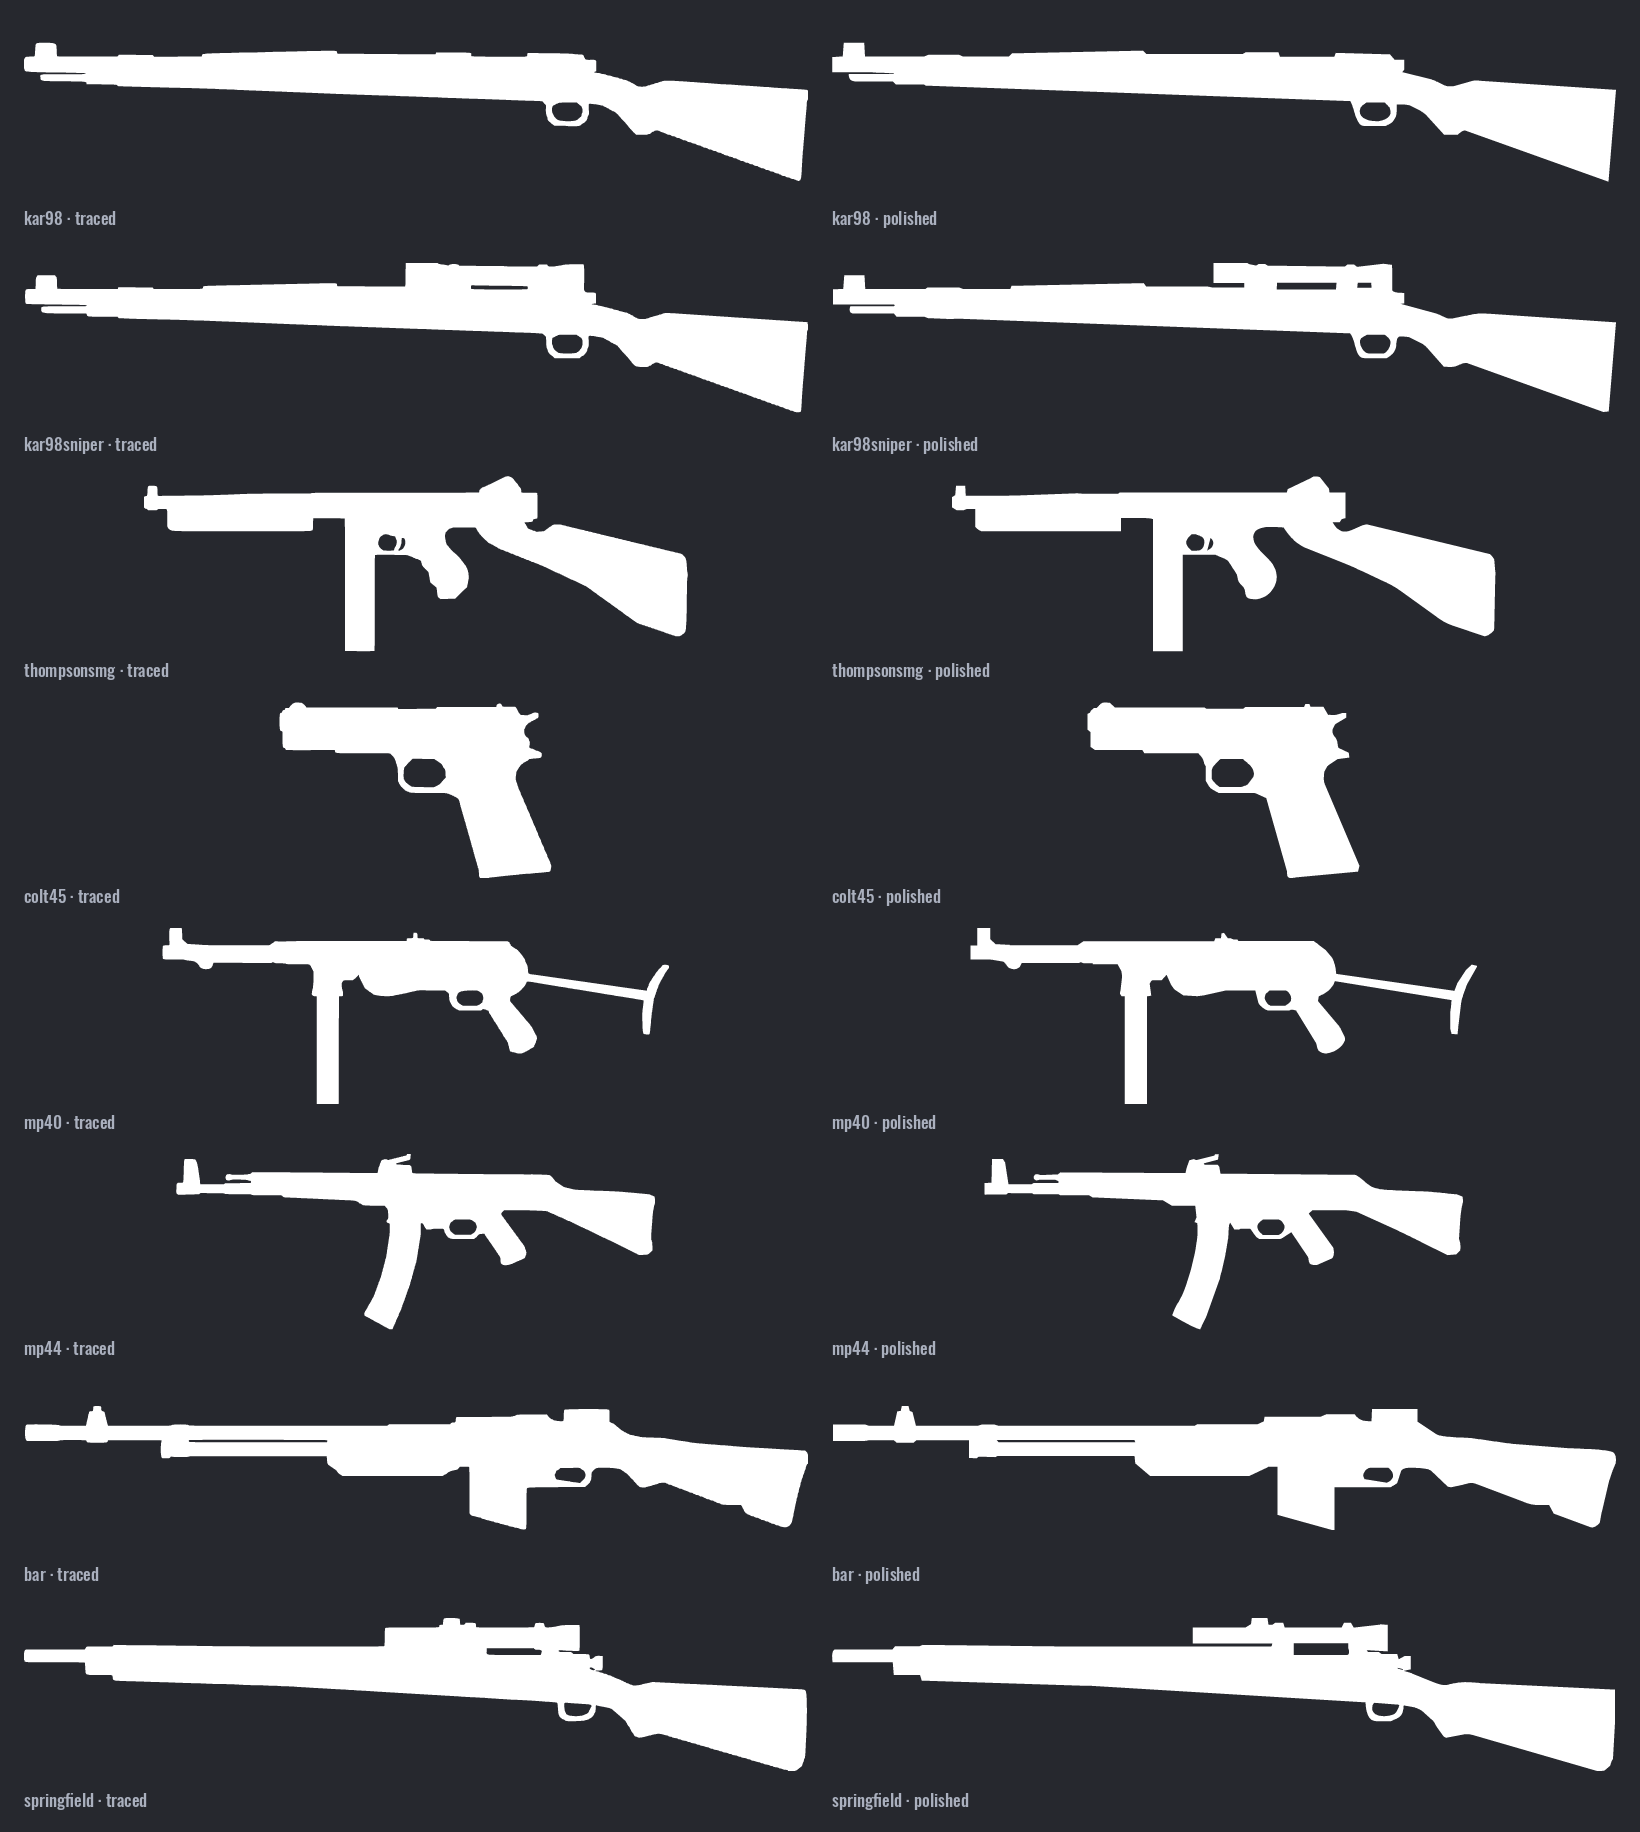
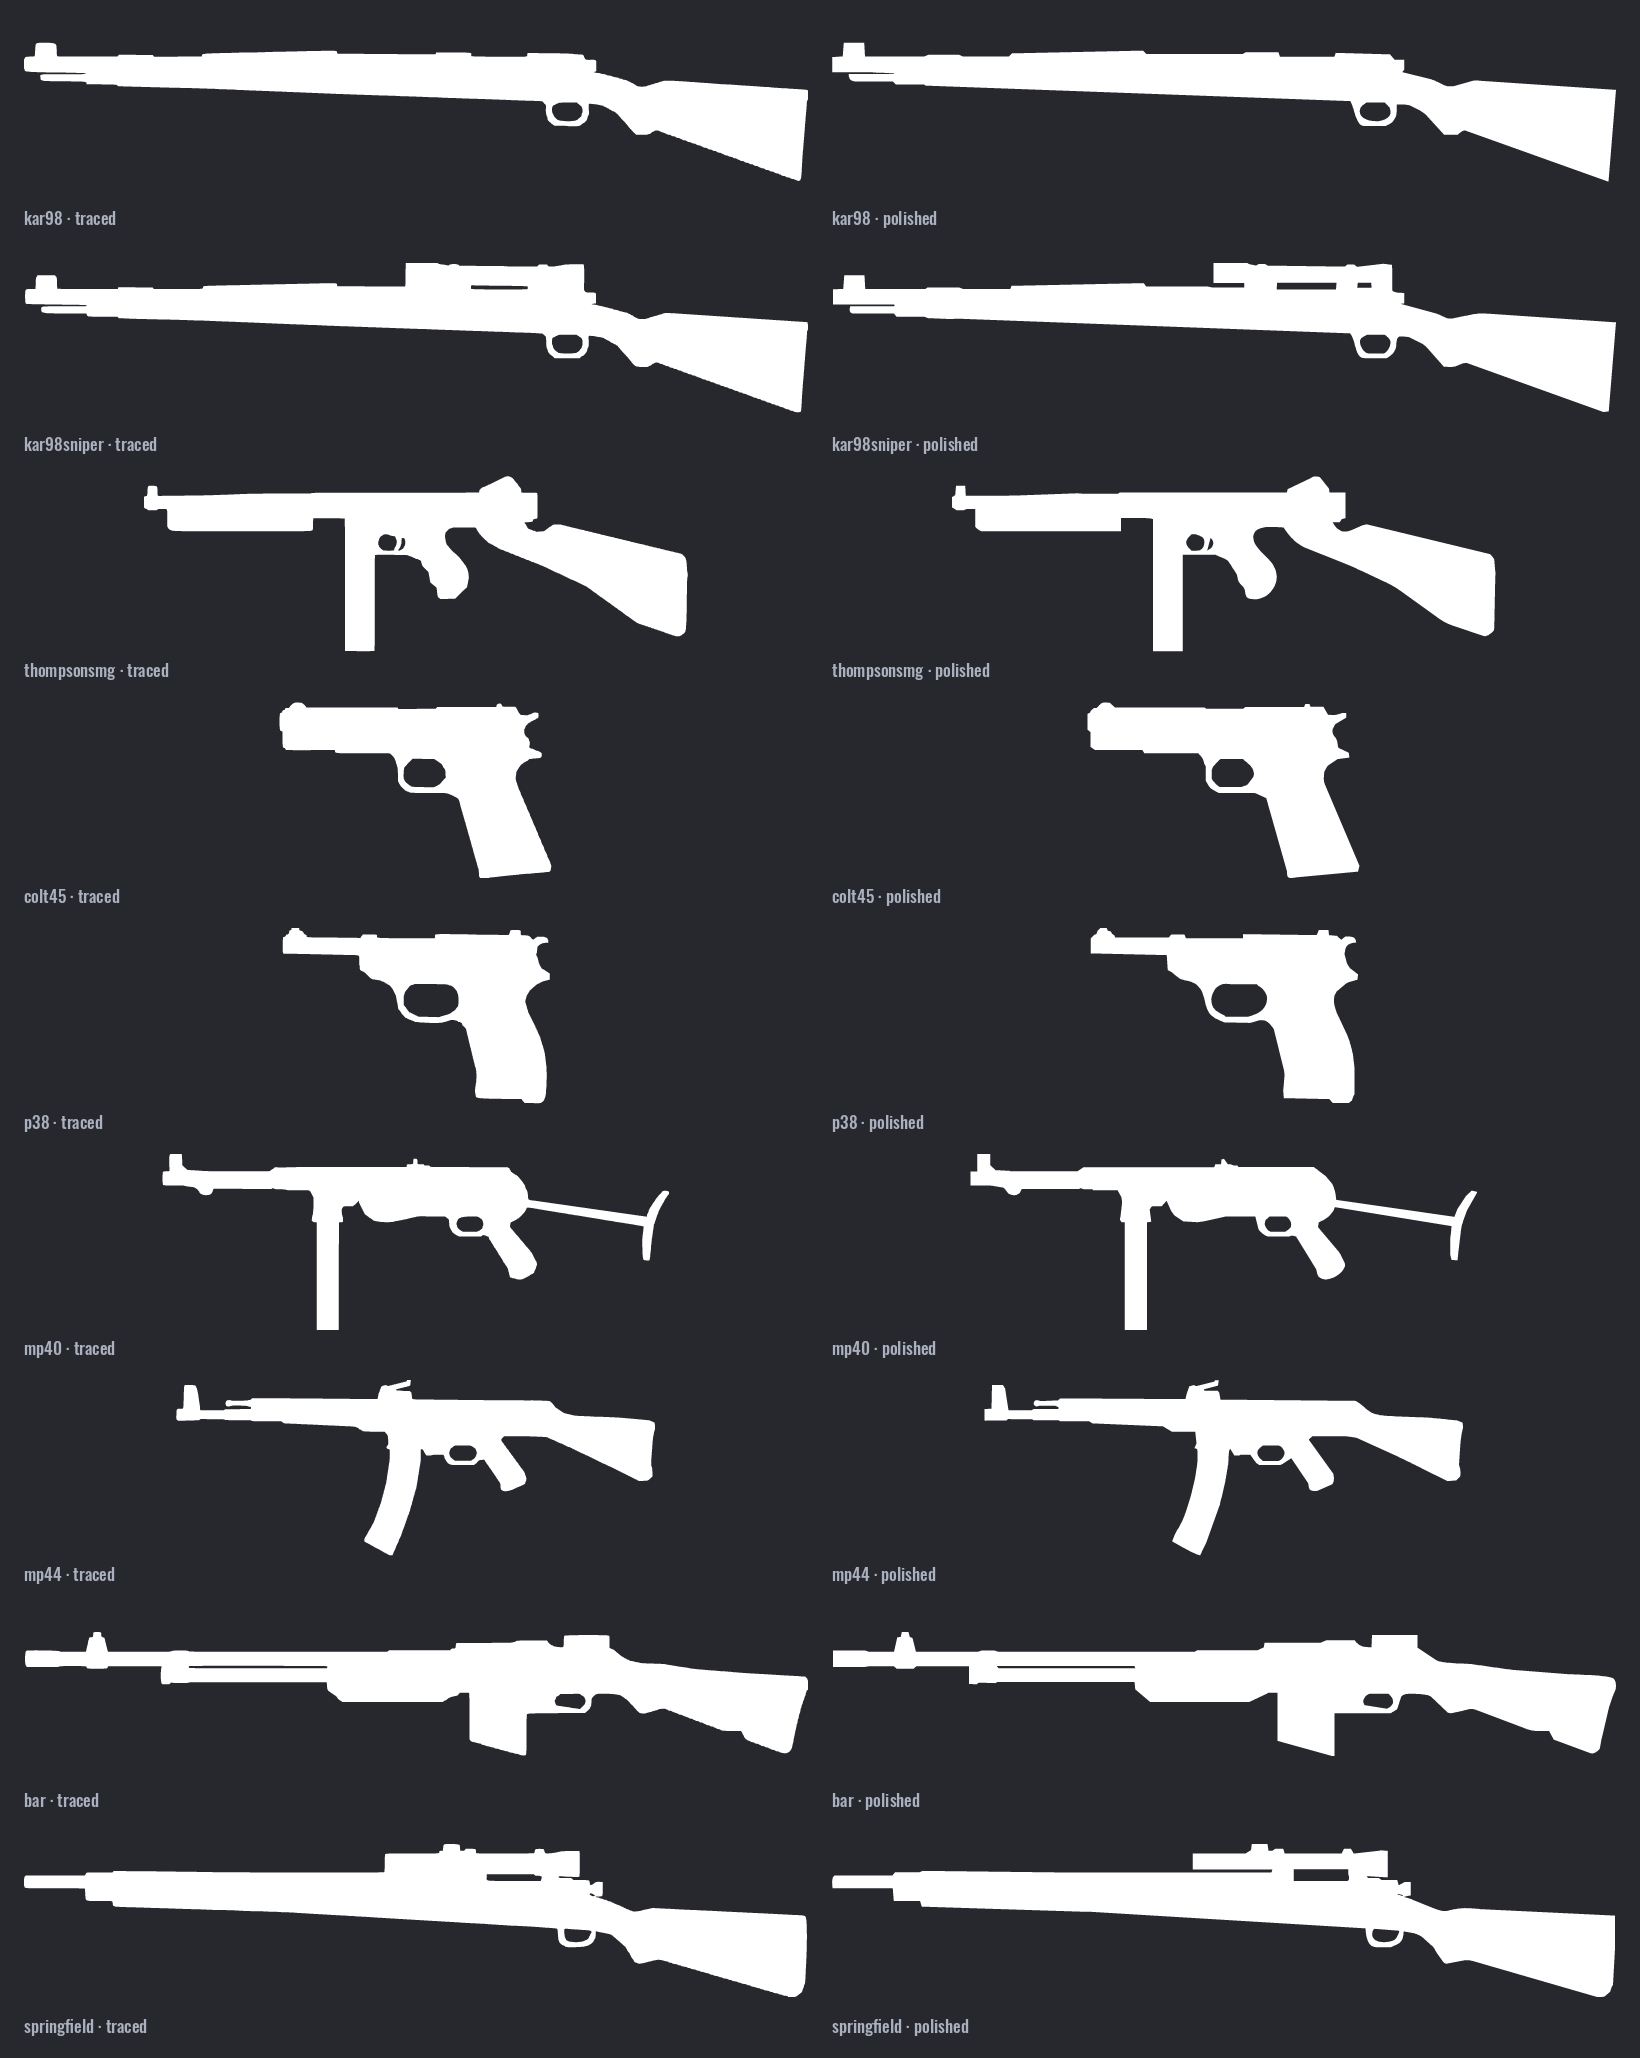
Add the polished Walther P38 outline
The P38 drawn again from its PNG as a clean vector, following a picture
of the pistol: the trigger guard, an octagon in the PNG, now a smooth
loop with a flat top and its front sweeping down from the frame in one
curve; the back of the frame under the hammer and the top of the back
strap smooth. The barrel, slide, sights, hammer, the grip's front and
back and the magazine base stay straight and crisp. 68 segments against
the trace's 244, lined up with the PNG to within a pixel.

Added to the README's before and after.

diff --git a/README.md b/README.md
@@ -45,9 +45,9 @@ Like the originals they are white, the colour the HUD tints, so they don't show 
 
 The polished outlines are drawn again from the same PNGs, as clean vectors: edges that are straight on the weapon are exactly straight, corners are crisp, and curved parts such as grips, trigger guards and stocks are smooth, with none of the pixel steps left. Which parts are curved is judged from renders and pictures of the weapon; the Thompson's grip and stock follow a picture of a real M1A1. Each still lines up with its PNG to within about a pixel, in a fifth to a third of the trace's segments, and is the same kind of file: one white path, the viewBox the PNG's size, holes running against the shapes around them. On the two scoped rifles, the Kar98k sniper and the Springfield, the gap between the scope and the rifle is opened again: the game's models have it, but the PNGs' 1-pixel border closed it. It is a little wider than on the models, so the scope still stands clear at HUD size.
 
-So far the Kar98k and its sniper version, the Thompson, the Colt .45, the MP40, the StG 44, the BAR and the Springfield are done; the rest of *Allied Assault*'s own weapons are to follow, the bazooka and the Panzerschreck aside. Traced against polished:
+So far the Kar98k and its sniper version, the Thompson, the Colt .45, the P38, the MP40, the StG 44, the BAR and the Springfield are done; the rest of *Allied Assault*'s own weapons are to follow, the bazooka and the Panzerschreck aside. Traced against polished:
 
-<img src="weapons/preview-polished.png" alt="The Kar98k, Kar98k sniper, Thompson, Colt .45, MP40, StG 44, BAR and Springfield outlines, white on dark grey: each trace on the left, its polished outline on the right">
+<img src="weapons/preview-polished.png" alt="The Kar98k, Kar98k sniper, Thompson, Colt .45, P38, MP40, StG 44, BAR and Springfield outlines, white on dark grey: each trace on the left, its polished outline on the right">
 
 ## Logo
 
